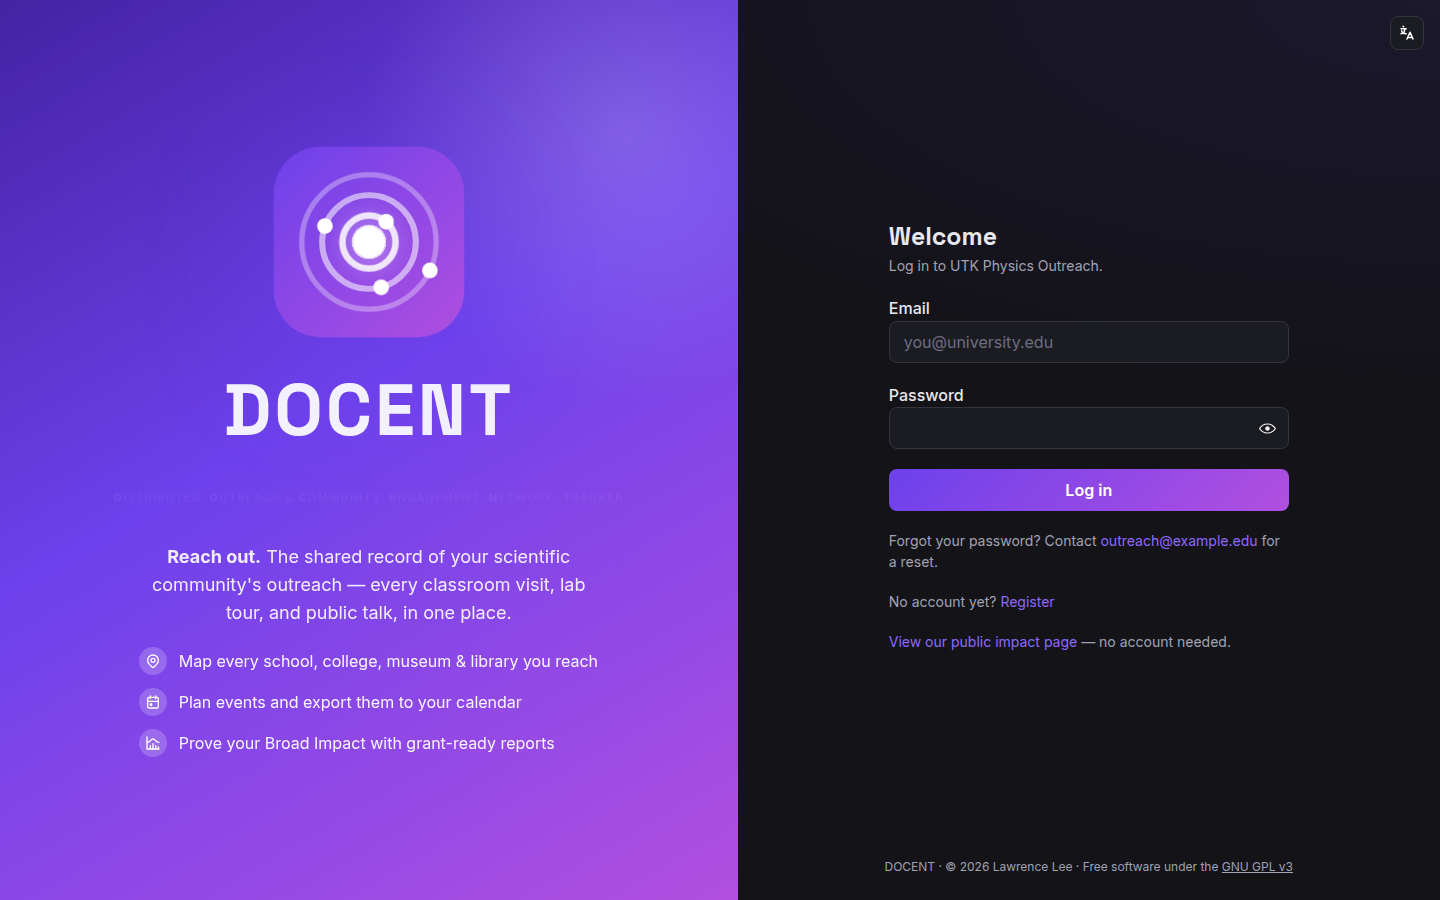
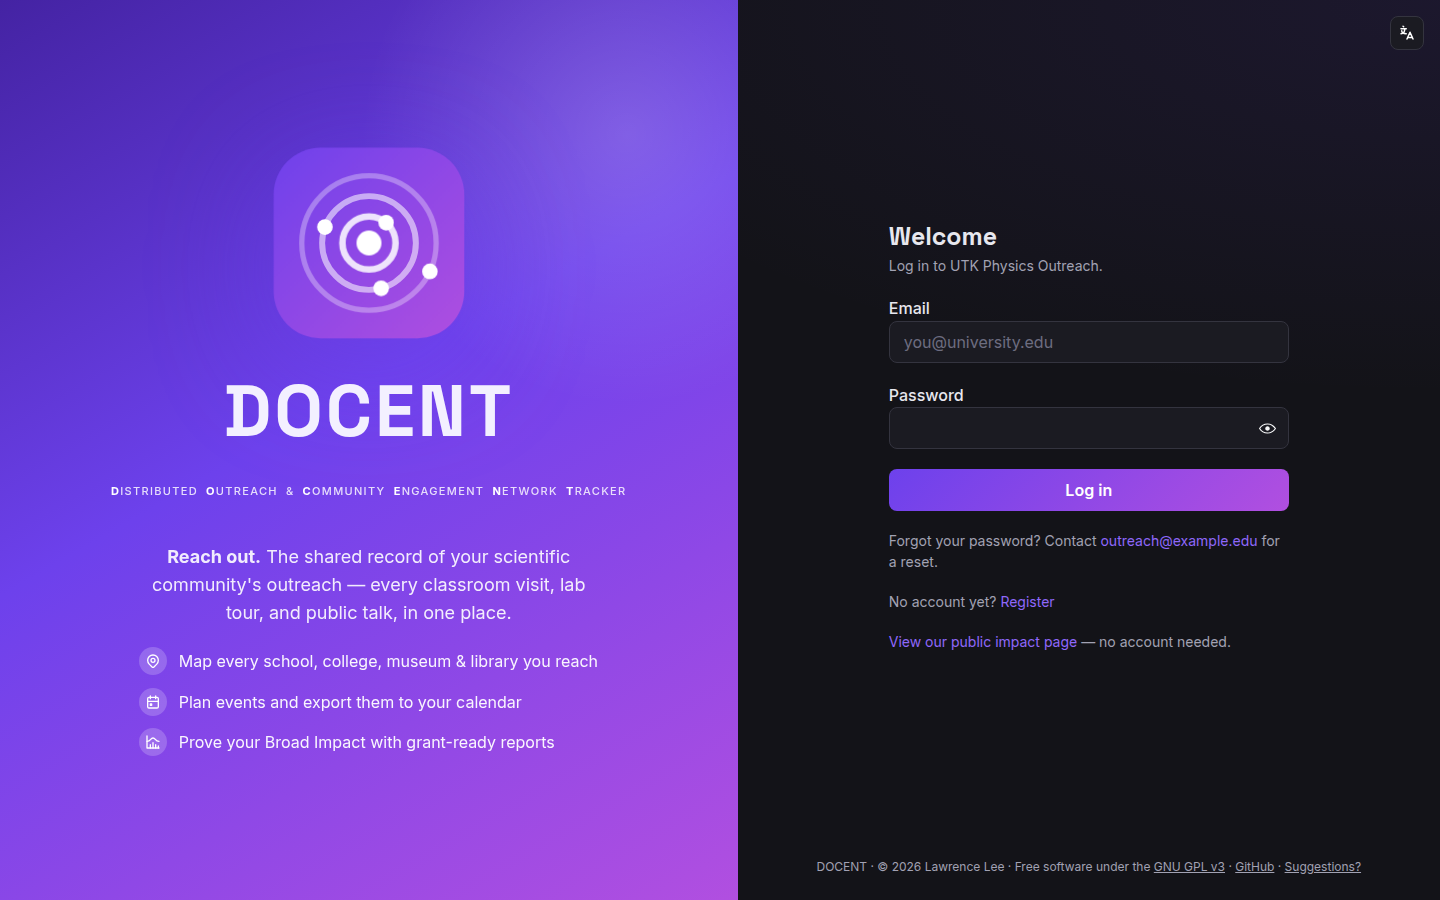
Title page: wrap acronym definition, add mobile splash (#33)
Desktop: the acronym definition under the logo used non-breaking spaces
between every word, so it could never wrap and was clipped by the hero
panel on narrower windows. Use plain spaces (restoring the inter-word gap
via word-spacing in CSS) so it line-breaks instead of overflowing.

Mobile: phones skip the desktop auth hero and its animation entirely, so
add a brief full-screen animated-logo splash before the login form. It
plays once per session, honours prefers-reduced-motion, and is tap-to-skip.

Also extend the same GitHub / Suggestions? footer links to the login/
register footer for consistency with the in-app footer (#34), sharing the
URLs from a new links.ts module.

Regenerated docs/screenshots/00-login.png to reflect the new footer links.

Claude-Session: https://claude.ai/code/session_015eTiZxejdDqg8FPNUyzrAe

diff --git a/frontend/src/components/MobileSplash.tsx b/frontend/src/components/MobileSplash.tsx
@@ -1,0 +1,66 @@
+import { useEffect, useState } from 'react';
+import { LogoReveal } from './LogoReveal';
+import './MobileSplash.css';
+
+// Once shown, we don't replay it as the user moves between login/register in
+// the same session — a splash on every navigation would be annoying (#33).
+const SPLASH_KEY = 'docent_splash_shown';
+const LEAVE_AT = 2900; // let the reveal play and the tagline settle, then exit
+const REMOVE_AT = 3350; // matches the fade-out transition in the CSS
+
+/** Decide synchronously (before first paint) whether the animated splash
+ * should run: only on phone-width screens, only once per session, and never
+ * when the user prefers reduced motion. Computing this in the initial state
+ * avoids a flash of the login form before the overlay mounts. */
+function shouldPlay(): boolean {
+  if (typeof window === 'undefined' || !window.matchMedia) return false;
+  try {
+    if (sessionStorage.getItem(SPLASH_KEY) === '1') return false;
+  } catch {
+    /* storage may be unavailable (private mode) — fall through and play once */
+  }
+  const isPhone = window.matchMedia('(max-width: 47.99em)').matches;
+  const reduceMotion = window.matchMedia('(prefers-reduced-motion: reduce)').matches;
+  return isPhone && !reduceMotion;
+}
+
+/**
+ * Brief animated-logo splash shown before the login form on phones (#33).
+ * Desktop already sees the animation in the auth hero panel, so this only
+ * runs below the `sm` breakpoint where that panel is hidden.
+ */
+export function MobileSplash() {
+  const [phase, setPhase] = useState<'in' | 'leaving' | 'done'>(() =>
+    shouldPlay() ? 'in' : 'done',
+  );
+
+  useEffect(() => {
+    if (phase !== 'in') return;
+    try {
+      sessionStorage.setItem(SPLASH_KEY, '1');
+    } catch {
+      /* ignore — worst case the splash shows again next navigation */
+    }
+    const leave = window.setTimeout(() => setPhase('leaving'), LEAVE_AT);
+    const remove = window.setTimeout(() => setPhase('done'), REMOVE_AT);
+    return () => {
+      window.clearTimeout(leave);
+      window.clearTimeout(remove);
+    };
+  }, [phase]);
+
+  if (phase === 'done') return null;
+
+  const dismiss = () => setPhase((p) => (p === 'in' ? 'leaving' : p));
+
+  return (
+    <div
+      className={`docent-splash${phase === 'leaving' ? ' is-leaving' : ''}`}
+      role="presentation"
+      onClick={dismiss}
+      onTransitionEnd={() => phase === 'leaving' && setPhase('done')}
+    >
+      <LogoReveal size={172} showTagline />
+    </div>
+  );
+}

diff --git a/frontend/src/components/AuthShell.tsx b/frontend/src/components/AuthShell.tsx
@@ -6,8 +6,10 @@ import {
 } from '@tabler/icons-react';
 import type { ReactNode } from 'react';
 import { useTranslation } from 'react-i18next';
+import { GITHUB_CONTRIBUTING_URL, GITHUB_README_URL } from '../links';
 import { LanguageSwitcher } from './LanguageSwitcher';
 import { LogoReveal } from './LogoReveal';
+import { MobileSplash } from './MobileSplash';
 import { TranslationDisclaimer } from './TranslationDisclaimer';
 
 /**
@@ -23,6 +25,7 @@ export function AuthShell({ children }: { children: ReactNode }) {
   ];
   return (
     <Box className="auth-grid" style={{ position: 'relative' }}>
+      <MobileSplash />
       <Box pos="absolute" top="1rem" right="1rem" style={{ zIndex: 1 }}>
         <LanguageSwitcher />
       </Box>
@@ -100,6 +103,12 @@ export function AuthShell({ children }: { children: ReactNode }) {
             underline="always"
           >
             GNU GPL v3
+          </Anchor>{' · '}
+          <Anchor href={GITHUB_README_URL} target="_blank" rel="noreferrer" c="dimmed" underline="always">
+            {t('layout.footerGithub')}
+          </Anchor>{' · '}
+          <Anchor href={GITHUB_CONTRIBUTING_URL} target="_blank" rel="noreferrer" c="dimmed" underline="always">
+            {t('layout.footerSuggestions')}
           </Anchor>
         </Text>
       </Box>

diff --git a/frontend/src/components/Layout.tsx b/frontend/src/components/Layout.tsx
@@ -23,6 +23,7 @@ import { Link, useLocation, useNavigate } from 'react-router-dom';
 import { api } from '../api/client';
 import { isOverdue, type ActivityListItem, type AuthConfig, type Paginated } from '../api/types';
 import { useAuth } from '../auth/AuthContext';
+import { GITHUB_CONTRIBUTING_URL, GITHUB_README_URL } from '../links';
 import { LanguageSwitcher } from './LanguageSwitcher';
 import { Logo } from './Logo';
 import { TranslationDisclaimer } from './TranslationDisclaimer';
@@ -347,9 +348,3 @@ const COPYRIGHT_YEAR = 2026;
 // The footer version: the git tag when this commit is tagged, otherwise the
 // short commit hash. Injected at build time — see vite.config.ts (#26).
 const APP_VERSION = __APP_VERSION__;
-
-// Footer links back to the project home and its contribution guide (#34).
-const GITHUB_README_URL =
-  'https://github.com/lawrenceleejr/DOCENT?tab=readme-ov-file#docent--reach-out-track-it-prove-your-broad-impact';
-const GITHUB_CONTRIBUTING_URL =
-  'https://github.com/lawrenceleejr/DOCENT?tab=contributing-ov-file#contributing-to-docent';

diff --git a/frontend/src/components/MobileSplash.css b/frontend/src/components/MobileSplash.css
@@ -1,0 +1,29 @@
+/* Full-screen brand splash shown briefly on phones before the login form.
+   The gradient mirrors the desktop auth hero so the two entry points feel
+   like one product. See MobileSplash.tsx (#33). */
+.docent-splash {
+  position: fixed;
+  inset: 0;
+  z-index: 2000;
+  display: flex;
+  align-items: center;
+  justify-content: center;
+  padding: 1.5rem;
+  background: linear-gradient(150deg, #4423a3 0%, #6d41ec 45%, #b14fe0 100%);
+  opacity: 1;
+  transition: opacity 0.42s ease;
+}
+.docent-splash.is-leaving {
+  opacity: 0;
+  pointer-events: none;
+}
+
+/* The tagline ships tuned for a near-black surface; lighten its ink on the
+   bright gradient so the acronym definition stays legible. */
+.docent-splash .dc-tagline {
+  color: rgba(255, 255, 255, 0.85);
+  max-width: 22em;
+}
+.docent-splash .dc-tagline b {
+  color: #fff;
+}

diff --git a/frontend/src/components/LogoReveal.tsx b/frontend/src/components/LogoReveal.tsx
@@ -76,9 +76,12 @@ export function LogoReveal({
         </div>
 
         {showTagline && (
+          // Plain spaces (not &nbsp;) so the definition wraps to multiple lines
+          // on a narrow panel instead of overflowing and getting clipped (#33).
+          // The inter-word gap is restored via `word-spacing` in the CSS.
           <div className="dc-tagline">
-            <b>D</b>istributed&nbsp;&nbsp;<b>O</b>utreach&nbsp;&amp;&nbsp;<b>C</b>ommunity&nbsp;&nbsp;
-            <b>E</b>ngagement&nbsp;&nbsp;<b>N</b>etwork&nbsp;&nbsp;<b>T</b>racker
+            <b>D</b>istributed <b>O</b>utreach &amp; <b>C</b>ommunity{' '}
+            <b>E</b>ngagement <b>N</b>etwork <b>T</b>racker
           </div>
         )}
       </div>

diff --git a/frontend/src/components/LogoReveal.css b/frontend/src/components/LogoReveal.css
@@ -35,10 +35,15 @@
   font-family: 'Inter Variable', Inter, sans-serif;
   font-size: 13px;
   letter-spacing: 0.26em;
+  /* Wider gap between words (previously hard-coded as double &nbsp;), now via
+     word-spacing so the words can still line-break when space is tight (#33). */
+  word-spacing: 0.35em;
+  line-height: 1.5;
   text-transform: uppercase;
   font-weight: 500;
   color: #6d6d80;
   text-align: center;
+  overflow-wrap: break-word;
   animation: dcFade 0.8s ease-out 2.15s both;
 }
 .dc-tagline b {

diff --git a/frontend/src/links.ts b/frontend/src/links.ts
@@ -1,0 +1,5 @@
+// Outbound links to the project on GitHub, shared by the app footers (#34).
+export const GITHUB_README_URL =
+  'https://github.com/lawrenceleejr/DOCENT?tab=readme-ov-file#docent--reach-out-track-it-prove-your-broad-impact';
+export const GITHUB_CONTRIBUTING_URL =
+  'https://github.com/lawrenceleejr/DOCENT?tab=contributing-ov-file#contributing-to-docent';
